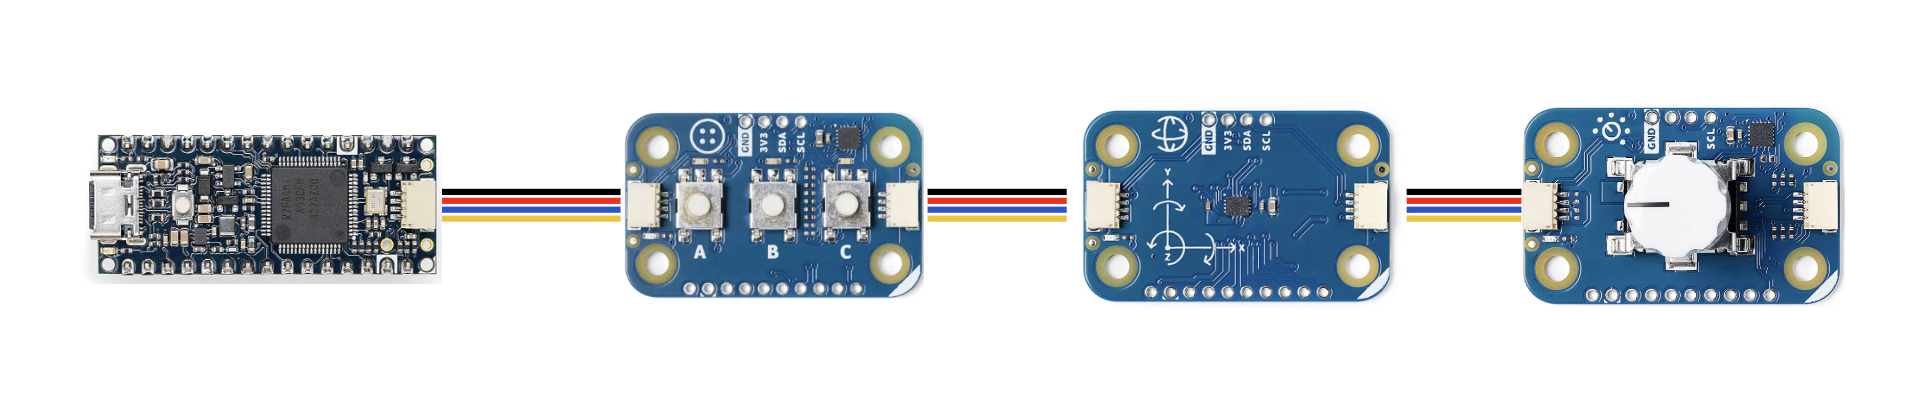
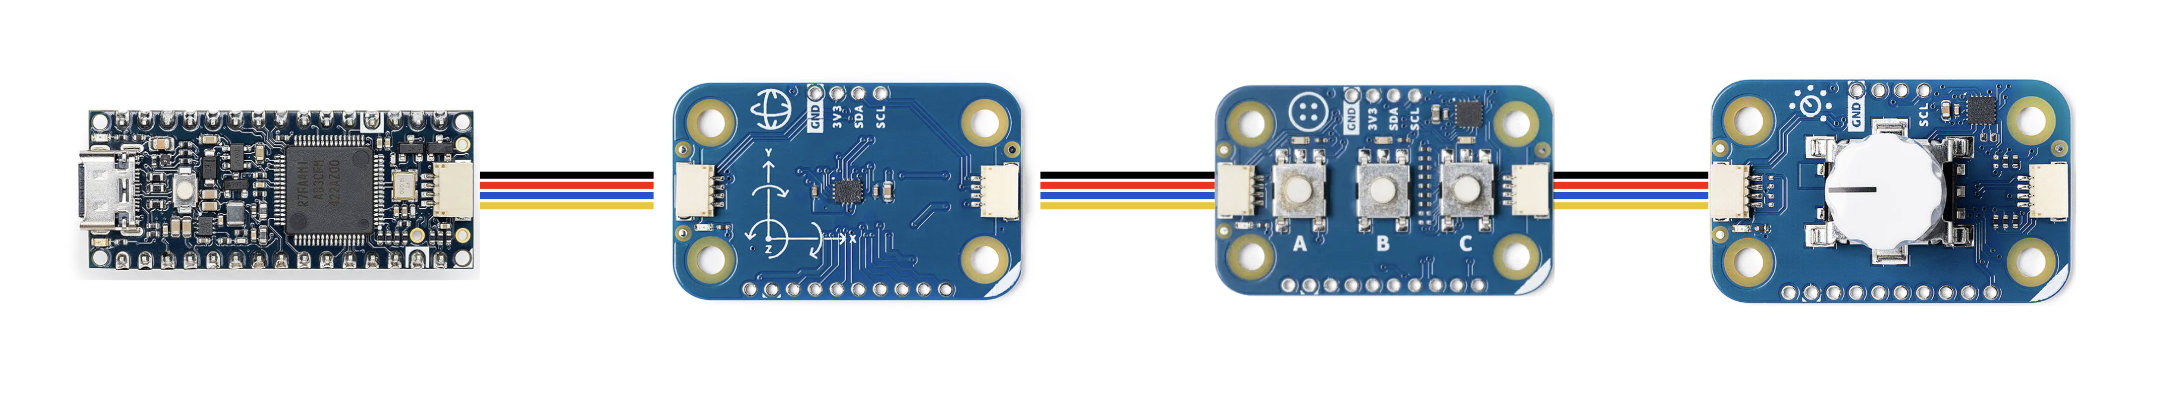
update schematics

Changed region(s): [[0.0312, 0.1827, 0.9657, 0.7919]]

diff --git a/INSTRUCTIONS.md b/INSTRUCTIONS.md
@@ -21,7 +21,7 @@ Il controller può essere adattato anche per altri giochi: modificando lo sketch
 
 ### **1. Collegare i Modulino in cascata**
 
-_Collega Knob, Movement e Buttons come in figura (l’ordine dei Modulino non è importante)._
+_Collega Knob, Movement e Buttons come in figura_
 
 ![Collegamento Modulino](img/schema_collegamenti.png)
 
